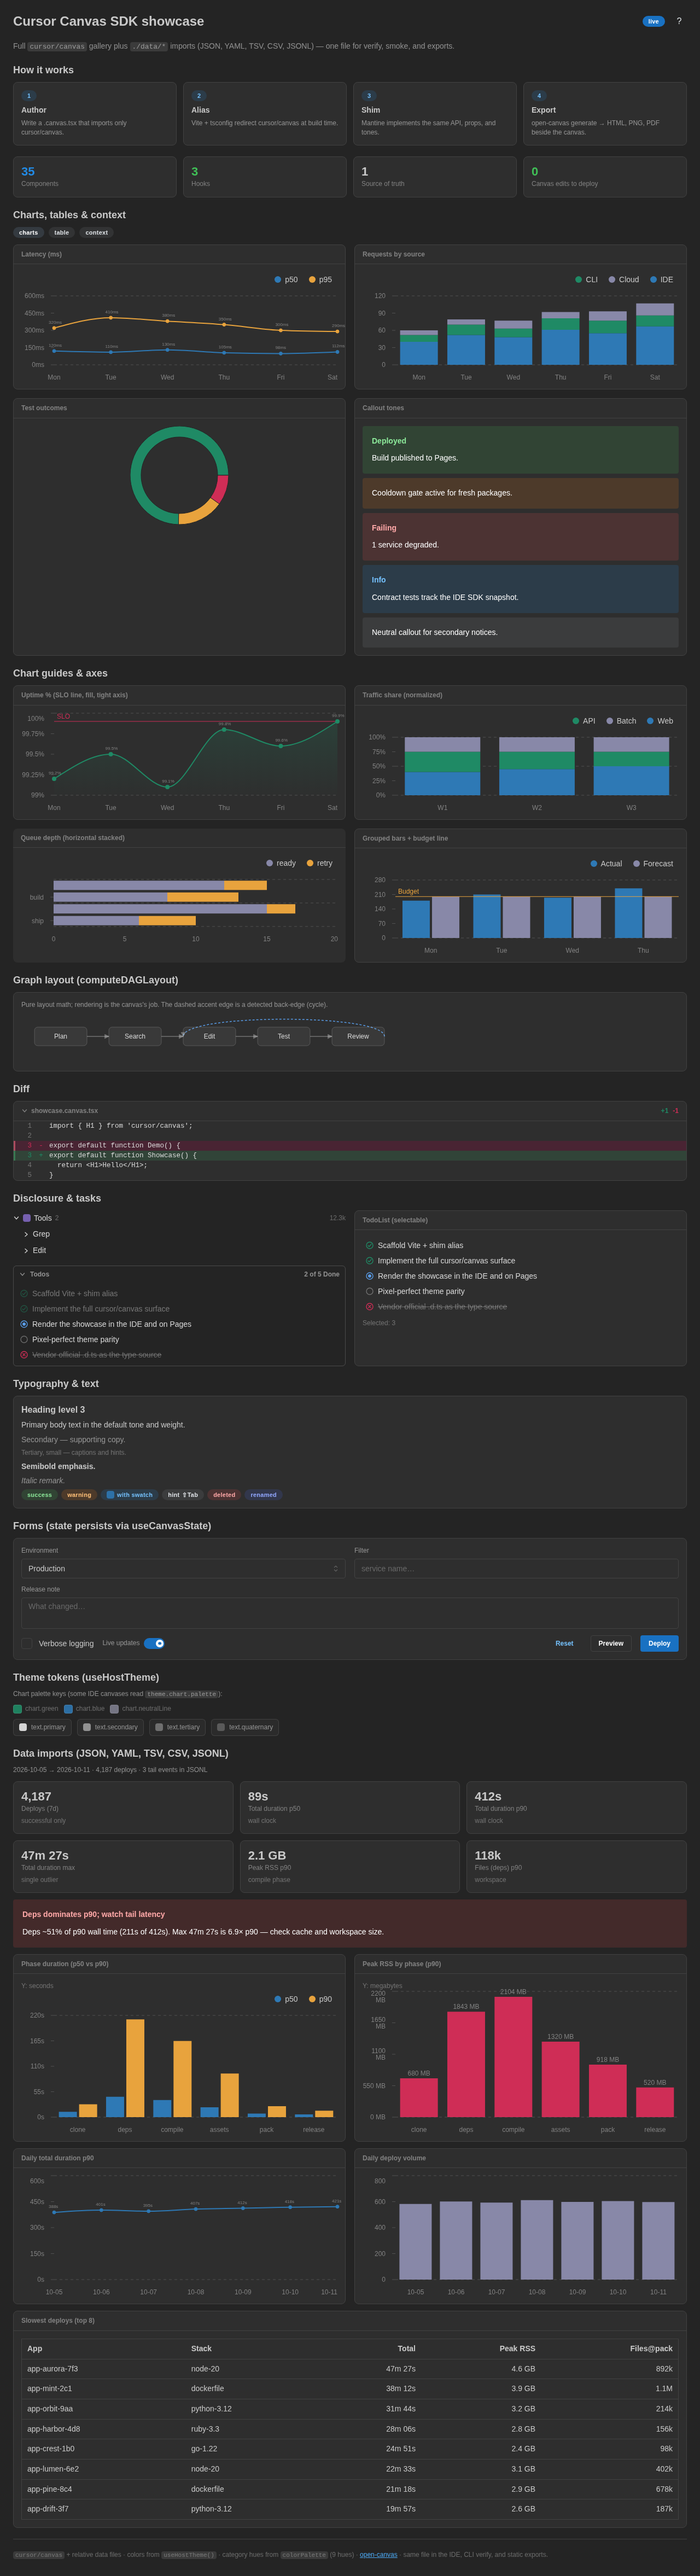
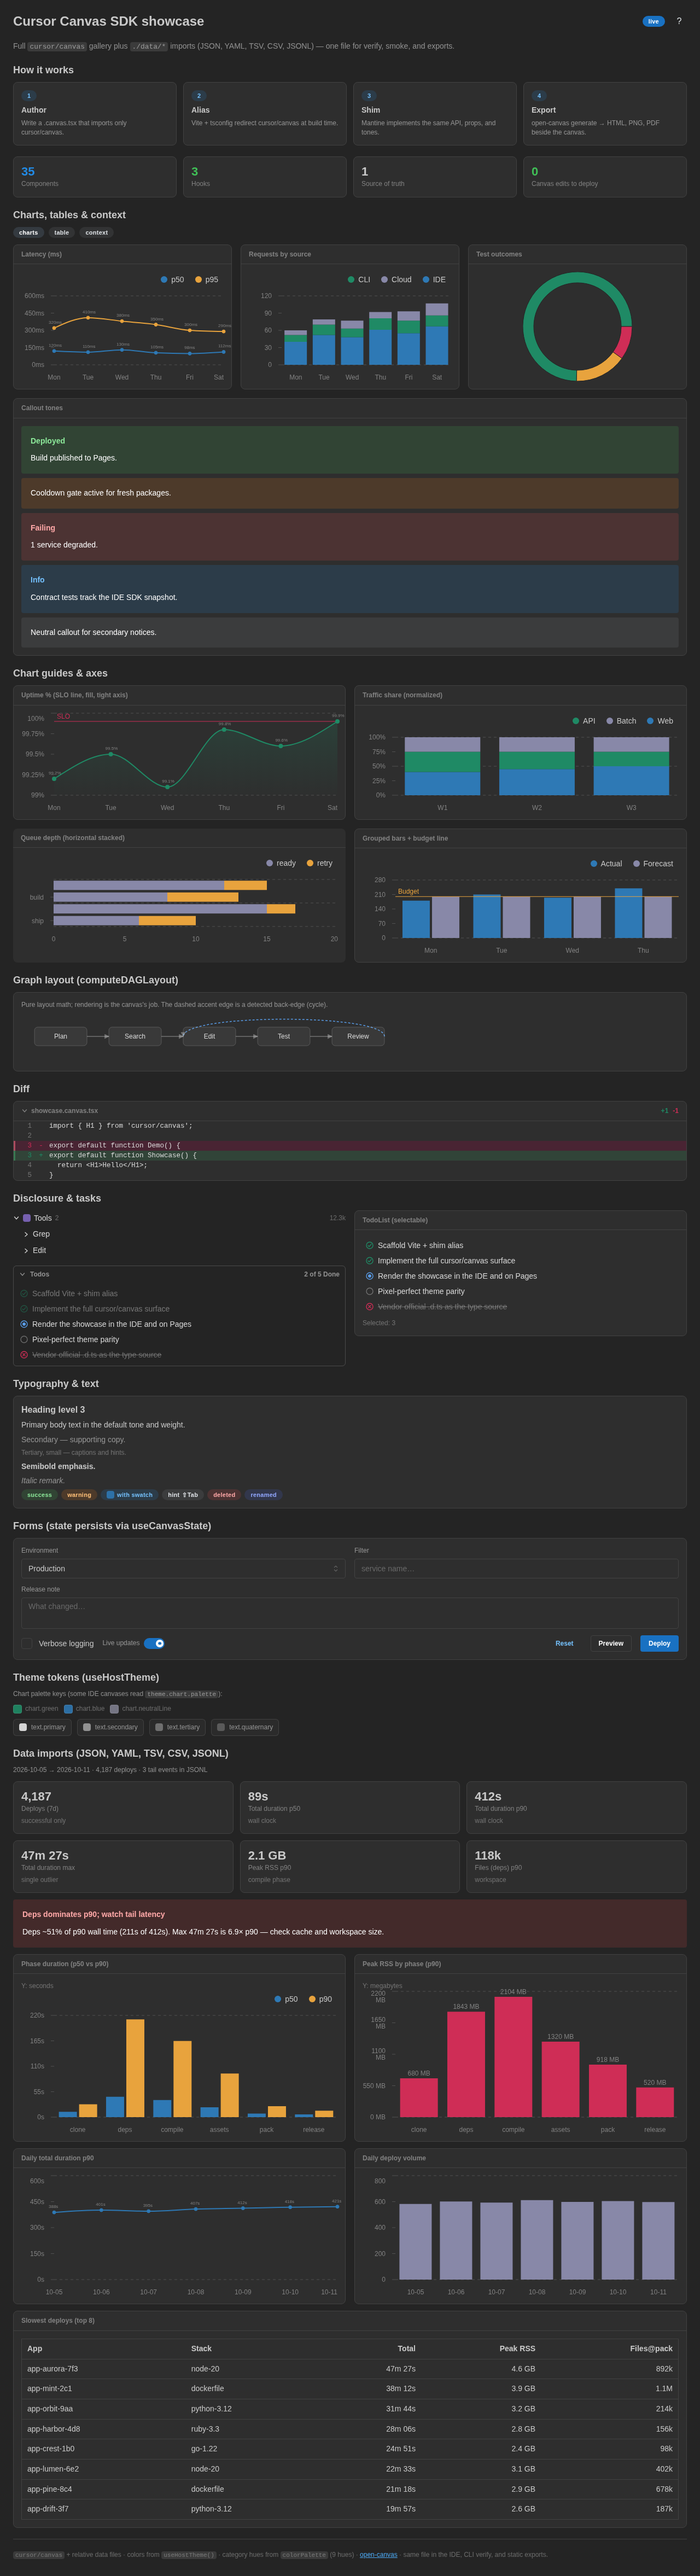
Release 1.1.2 with cursor-canvas-web 1.0.1

Changed region(s): [[0.0312, 0.0936, 0.9688, 0.2497]]

diff --git a/example/showcase.canvas.tsx b/example/showcase.canvas.tsx
@@ -10,6 +10,9 @@ import outlierRows from './data/outliers.csv'
 import phaseRssMb from './data/phase-rss.yaml'
 import report from './data/report.json'
 
+/** Bar/line height in the charts grid; pie `size` matches for visual parity. */
+const SHOWCASE_CHART_HEIGHT = 200
+
 const OUTLIER_TABLE = {
 	headers: ['App', 'Stack', 'Total', 'Peak RSS', 'Files@pack'],
 	rows: outlierRows.map(r => [
@@ -354,37 +357,44 @@ export default function ShowcaseCanvas() {
 					</Row>
 
 					{tab === 'charts' && (
-						<Grid columns={2} gap={16}>
-							<Card>
-								<CardHeader>Latency (ms)</CardHeader>
-								<CardBody>
-									<LineChart
-										categories={CATEGORIES}
-										series={LATENCY}
-										height={200}
-										valueSuffix="ms"
-									/>
-								</CardBody>
-							</Card>
-							<Card>
-								<CardHeader>Requests by source</CardHeader>
-								<CardBody>
-									<BarChart
-										categories={CATEGORIES}
-										series={REQUESTS}
-										height={200}
-										stacked
-									/>
-								</CardBody>
-							</Card>
-							<Card>
-								<CardHeader>Test outcomes</CardHeader>
-								<CardBody>
-									<Row justify="center">
-										<PieChart data={OUTCOMES} donut size={180} />
-									</Row>
-								</CardBody>
-							</Card>
+						<Stack gap={16}>
+							<Grid columns={3} gap={16} align="start">
+								<Card>
+									<CardHeader>Latency (ms)</CardHeader>
+									<CardBody>
+										<LineChart
+											categories={CATEGORIES}
+											series={LATENCY}
+											height={SHOWCASE_CHART_HEIGHT}
+											valueSuffix="ms"
+										/>
+									</CardBody>
+								</Card>
+								<Card>
+									<CardHeader>Requests by source</CardHeader>
+									<CardBody>
+										<BarChart
+											categories={CATEGORIES}
+											series={REQUESTS}
+											height={SHOWCASE_CHART_HEIGHT}
+											stacked
+										/>
+									</CardBody>
+								</Card>
+								<Card>
+									<CardHeader>Test outcomes</CardHeader>
+									<CardBody
+										style={{
+											display: 'flex',
+											alignItems: 'center',
+											justifyContent: 'center',
+											minHeight: SHOWCASE_CHART_HEIGHT,
+										}}
+									>
+										<PieChart data={OUTCOMES} donut size={SHOWCASE_CHART_HEIGHT} />
+									</CardBody>
+								</Card>
+							</Grid>
 							<Card>
 								<CardHeader>Callout tones</CardHeader>
 								<CardBody>
@@ -407,7 +417,7 @@ export default function ShowcaseCanvas() {
 									</Stack>
 								</CardBody>
 							</Card>
-						</Grid>
+						</Stack>
 					)}
 
 					{tab === 'table' && (
@@ -562,7 +572,7 @@ export default function ShowcaseCanvas() {
 
 			{/* Disclosure & tasks -------------------------------------------- */}
 			<Section title="Disclosure & tasks">
-				<Grid columns={2} gap={16}>
+				<Grid columns={2} gap={16} align="start">
 					<Stack gap={8}>
 						<CollapsibleSection
 							title="Tools"

diff --git a/.cursor/skills/shim-rollout/SKILL.md b/.cursor/skills/shim-rollout/SKILL.md
@@ -1,0 +1,48 @@
+---
+name: shim-rollout
+description: Read when fixing cursor-canvas-web shim and open-canvas together.
+---
+
+# Shim rollout (maintainer only)
+
+Not shipped to npm users. **`cursor-canvas-web`** implements `cursor/canvas`; **open-canvas** bundles it for CLI export.
+
+User canvases are free-form — fix **shim/components**, not “the one true layout”. Repo examples (`showcase`, fork `demo`) are smoke/verify fixtures and README art only.
+
+## Classify the defect
+
+| Symptom | Owner | Fix |
+| --- | --- | --- |
+| Component renders wrong in IDE-like export (charts, theme, API) | Shim | `src/shim/` |
+| CLI, verify, pack, Playwright | open-canvas | `src/` |
+| One-off JSX in an example | Example | only after shim + fork Vite demo look correct |
+
+Grid stretch beside a much taller sibling is an **author layout** issue in examples; shim still must size charts correctly for any parent.
+
+## Fix order
+
+1. Reproduce with fork `pnpm dev` and `open-canvas generate` on a minimal canvas if possible.
+2. Shim + `pnpm ci:local` in fork.
+3. `./.cursor/skills/shim-rollout/scripts/sync-local-shim.sh`
+4. `npm run ci:local` in open-canvas.
+5. **Visual:** `scripts/verify-showcase-visual.sh` → Read `.cache/showcase-charts-verify.jpg`.
+6. **README:** `npm run example:screenshot` (open-canvas); `pnpm demo:screenshot` (fork, sibling open-canvas built).
+7. **Publish order:** `npm publish` shim **1.0.1+** first → in open-canvas `npm install @flesler/cursor-canvas-web@^1.0.1` (registry lock; no `file:` sibling in lock) → then publish open-canvas.
+
+## Charts (shim)
+
+- Bar/Line: `height` (default 240). Pie: `size` (default 200). Different SDK props — shim wraps pie in `height/minHeight: size` for Recharts.
+- Do not change global `Grid` defaults to force user layouts.
+
+## Demo canvas
+
+Canonical example: open-canvas **`example/showcase.canvas.tsx`** (`./data/*` imports). Fork demo: **`pnpm sync:demo`** — runs `open-canvas generate --formats cursor` on showcase (same inliner users get) → `.cursor/canvases/demo.canvas.tsx`.
+
+## Scripts
+
+| Script | Role |
+| --- | --- |
+| `scripts/sync-local-shim.sh` | Fork `dist` → open-canvas `node_modules` |
+| `scripts/verify-showcase-visual.sh` | Cropped JPG for agent visual check |
+
+Fork: `pnpm sync:demo`, `pnpm demo:screenshot`. `OPEN_CANVAS_ROOT` overrides sibling path.

diff --git a/README.md b/README.md
@@ -2,6 +2,8 @@
 
 Build `.canvas.tsx` → HTML, PNG, PDF; optional JPG or `--formats cursor` (IDE `.canvas.tsx`).
 
+Uses [`@flesler/cursor-canvas-web`](https://github.com/flesler/cursor-canvas-web) to implement `cursor/canvas` at export time (Mantine-backed shim, aligned with the IDE SDK).
+
 <p>
   <img src="docs/showcase-light.png" alt="SDK showcase (light)" width="49%" />
   <img src="docs/showcase-dark.png" alt="SDK showcase (dark)" width="49%" />
@@ -13,7 +15,7 @@ Build `.canvas.tsx` → HTML, PNG, PDF; optional JPG or `--formats cursor` (IDE 
 npm install -g @flesler/open-canvas
 ```
 
-Checkout: `npm install && npm run build:cli`. Example: [showcase.canvas.tsx](example/showcase.canvas.tsx) + [data/](example/data/). PNG/PDF/JPG need Playwright (Chromium).
+Checkout: `npm install && npm run build:cli`. Example: [showcase.canvas.tsx](example/showcase.canvas.tsx) + [data/](example/data/) (illustrative only — your canvases can use any layout). PNG/PDF/JPG need Playwright (Chromium).
 
 ## CLI
 

diff --git a/CHANGELOG.md b/CHANGELOG.md
@@ -2,6 +2,14 @@
 
 All notable changes to this project will be documented in this file. Dates are displayed in UTC.
 
+## [1.1.2]
+#### 2026-10-13
+
+##### Changed
+- **`@flesler/cursor-canvas-web@^1.0.1`** (shim `PieChart` sizing).
+- Example: single `example/showcase.canvas.tsx` (SDK gallery + data imports); README light/dark screenshots and fork link.
+- Contract verifies fork `demo.canvas.tsx` when sibling shim repo is present; `npm run example:cursor` for cursor emit.
+
 ## [1.1.1]
 #### 2026-10-13
 
@@ -48,7 +56,7 @@ All notable changes to this project will be documented in this file. Dates are d
 - Positional canvas path (no `--canvas`); bin `bin/open-canvas.js`.
 - PDF via Playwright `page.pdf()`; centralized render options in `render-options.ts`.
 - Vite resolve for canvases outside the package (`src/pkg.ts`).
-- Example canvas: `example/build-plane.canvas.tsx`.
+- Example canvas: `example/showcase.canvas.tsx`.
 
 ##### Removed
 - `export` subcommand name (use `generate`).
